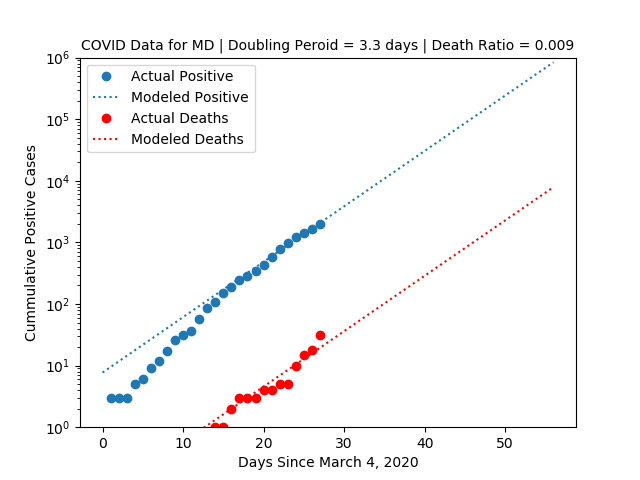
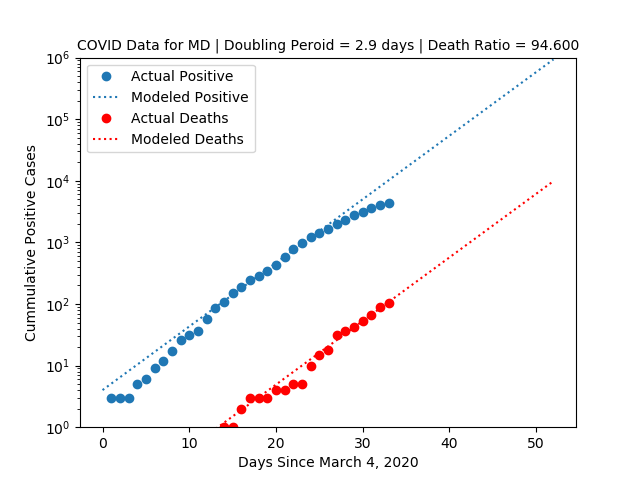
updated to fit deaths

diff --git a/plot_covid_2.py b/plot_covid_2.py
@@ -46,13 +46,12 @@ class update_covid:
 
     def fit_data(self, remove=0):
         x = self.data['nday']
-        y = self.data['positive']
+        y = self.data['deaths']
         good = np.isfinite(y)
         x = x[good]
         y = y[good]
         x = x[:len(x)-remove]
         y = y[:len(y)-remove]
-        print(len(x))
         popt, pcov = curve_fit(funct, x, y, p0=[1,1])
         self.popt = popt
 
@@ -60,13 +59,13 @@ class update_covid:
         pos = self.data['positive']
         deaths = self.data['deaths']
         good = np.where(np.isfinite(deaths) == True)
-        ratio = deaths[good]/pos[good]
+        ratio = 1/(deaths[good]/pos[good])
         return np.median(ratio)
 
     def extrapolate_fit(self):
         days = np.arange(120)
         pfit = funct(days, self.popt[0], self.popt[1])
-        match = np.where(pfit <= 1.0E+6)
+        match = np.where(pfit <= 1.0E+4)
         days = days[match]
         pfit = pfit[match]
 
@@ -78,7 +77,8 @@ class update_covid:
         for day in days:
             n = int(day)
             d = (date0 + timedelta(days=n)).strftime('%d-%b-%Y')
-            est_deaths = pfit[n]*ratio
+            est_deaths = pfit[n]            
+            est_pos = pfit[n]*ratio
 
             if n < len(deaths):
                 num = deaths[n]
@@ -89,7 +89,7 @@ class update_covid:
             else:
                 act_deaths = '---'
                 act_pos = '---'
-            print(f'{n:3d}{d:>15}{act_pos:>10}{pfit[n]:10,.0f}'\
+            print(f'{n:3d}{d:>15}{act_pos:>10}{est_pos:10,.0f}'\
                   f'{est_deaths:10,.0f}{act_deaths:>10}')
         
         return days, pfit
@@ -104,9 +104,9 @@ class update_covid:
 
         plt.semilogy(self.data['nday'], self.data['positive'], 'o', color='C0', \
                      label='Actual Positive')
-        plt.semilogy(t, pfit, ':', label='Modeled Positive', color='C0')
+        plt.semilogy(t, pfit*ratio, ':', label='Modeled Positive', color='C0')
         plt.semilogy(self.data['nday'], self.data['deaths'], 'or', label='Actual Deaths')
-        plt.semilogy(t, pfit*ratio, ':r', label='Modeled Deaths')
+        plt.semilogy(t, pfit, ':r', label='Modeled Deaths')
         plt.xlabel('Days Since March 4, 2020')
         plt.ylabel('Cummulative Positive Cases')
         plt.title(title, fontsize=10)
